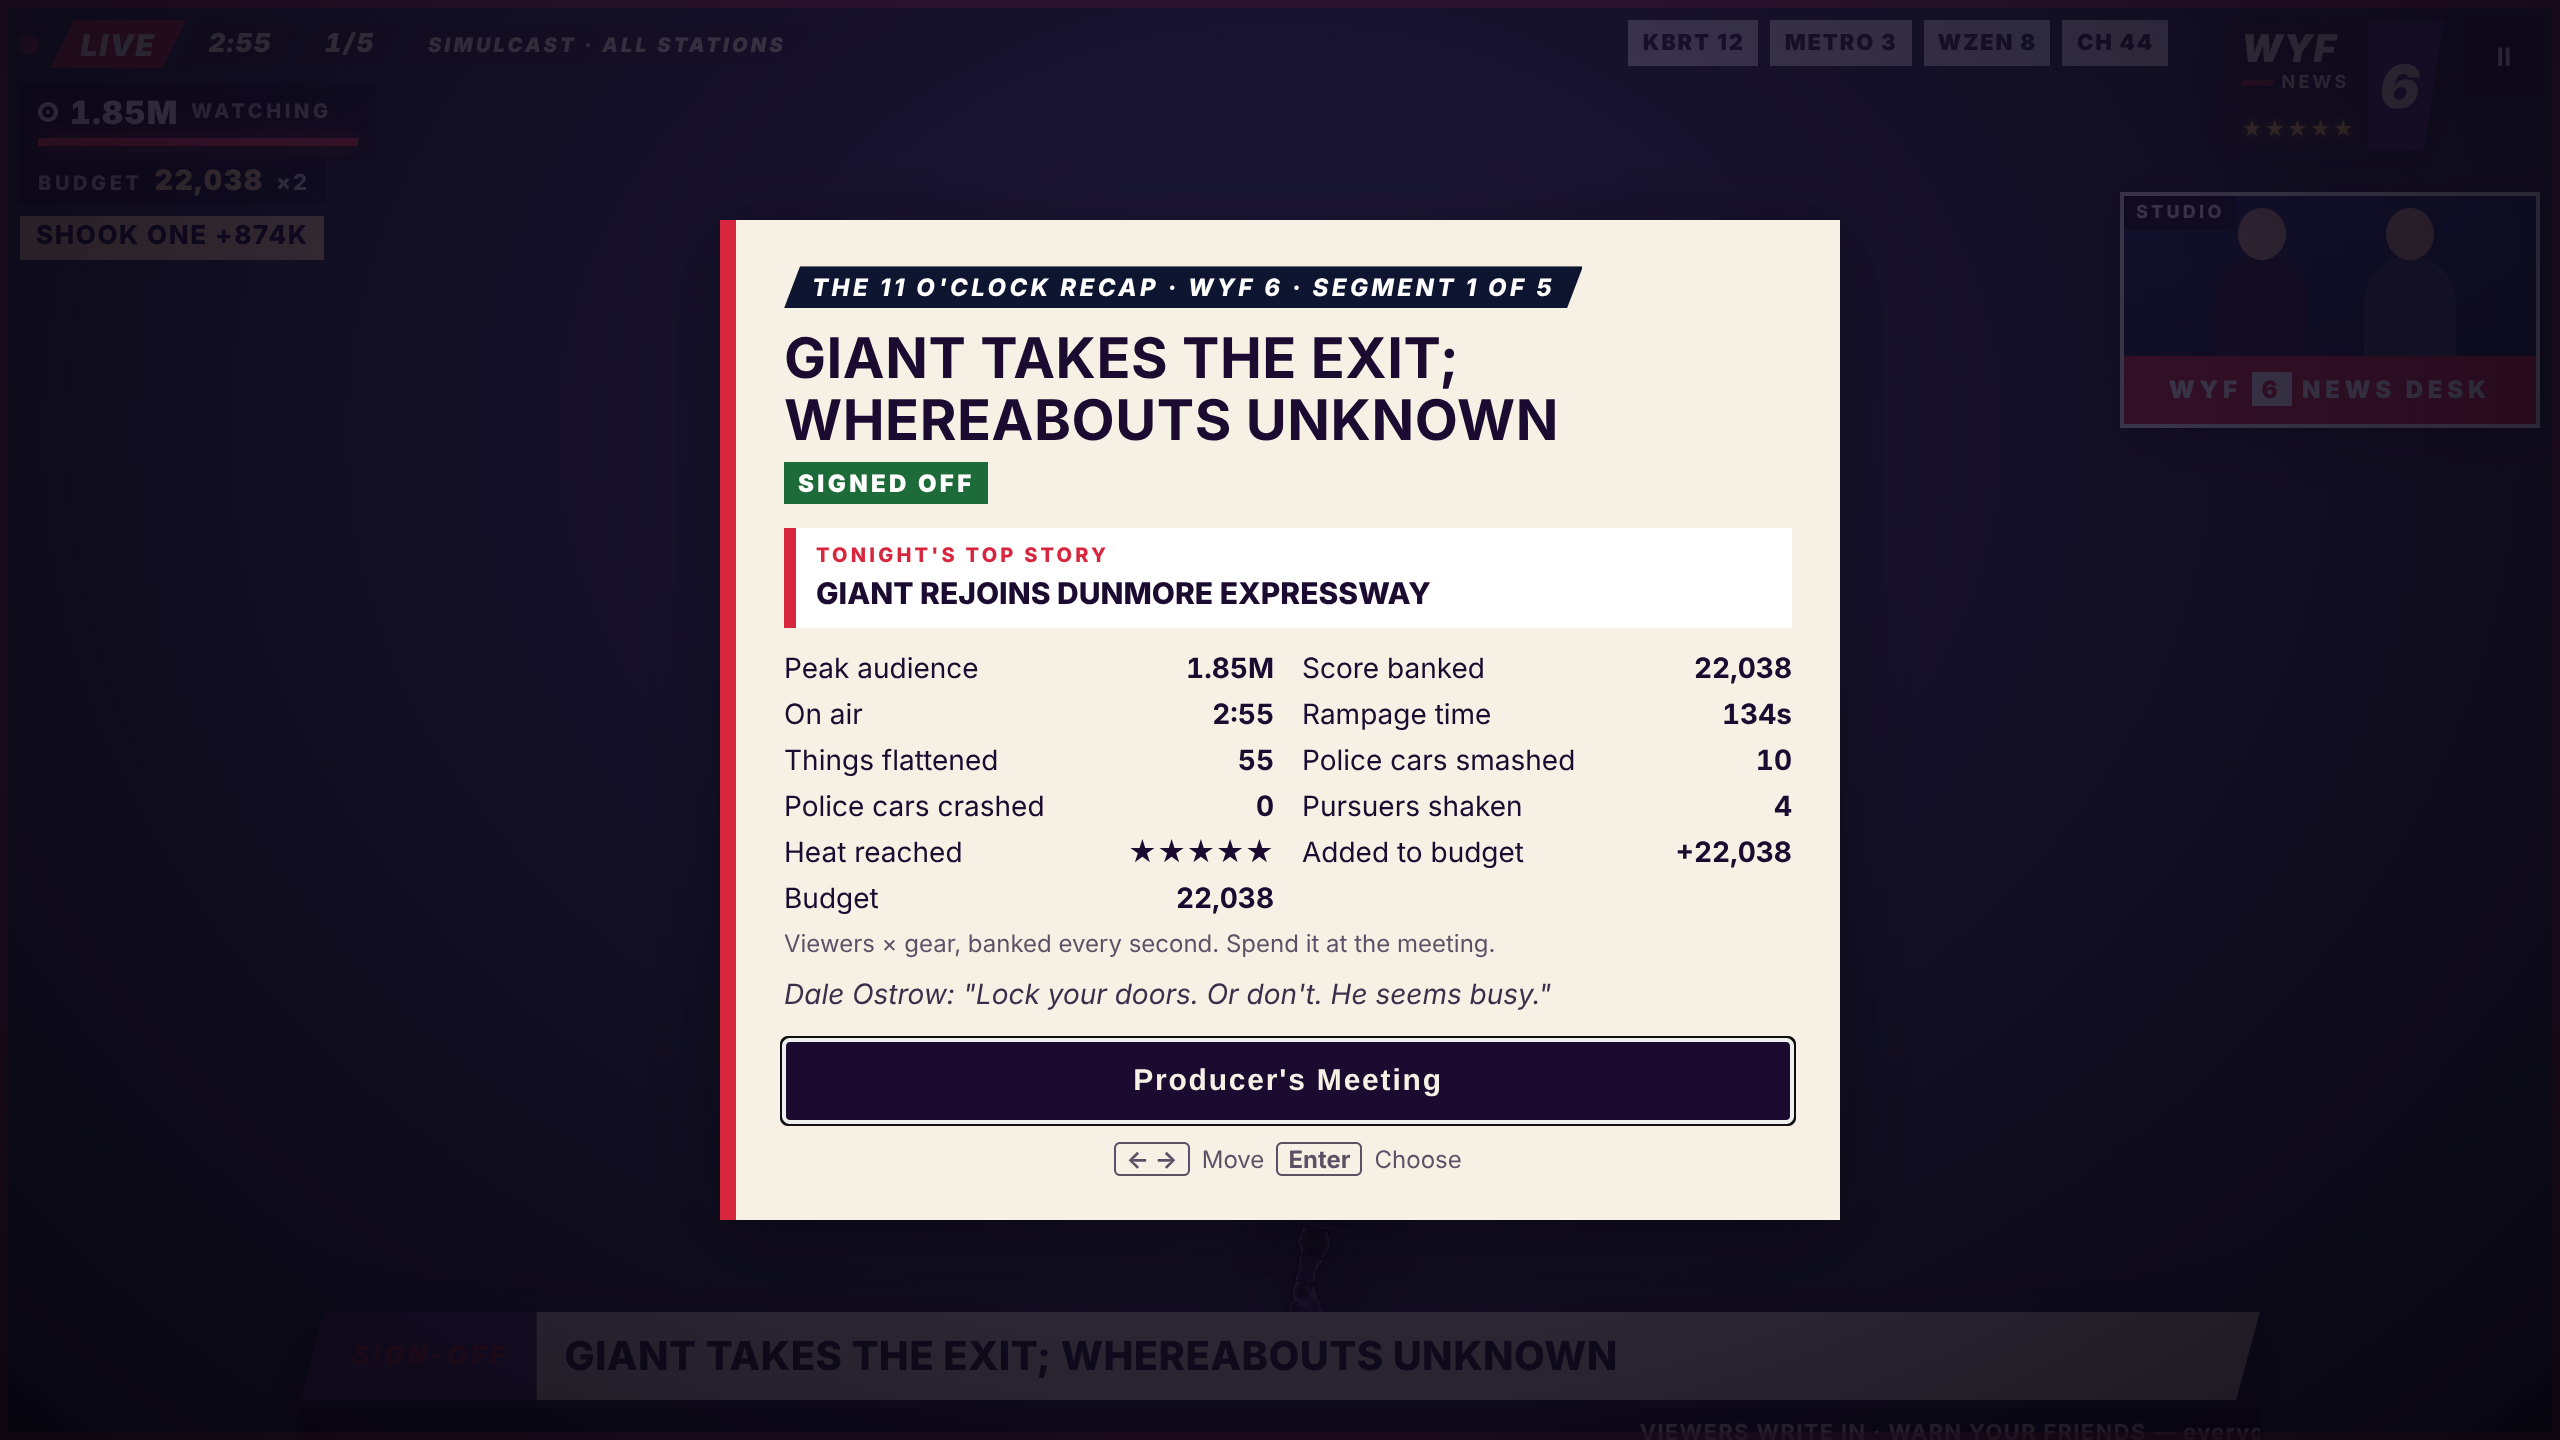
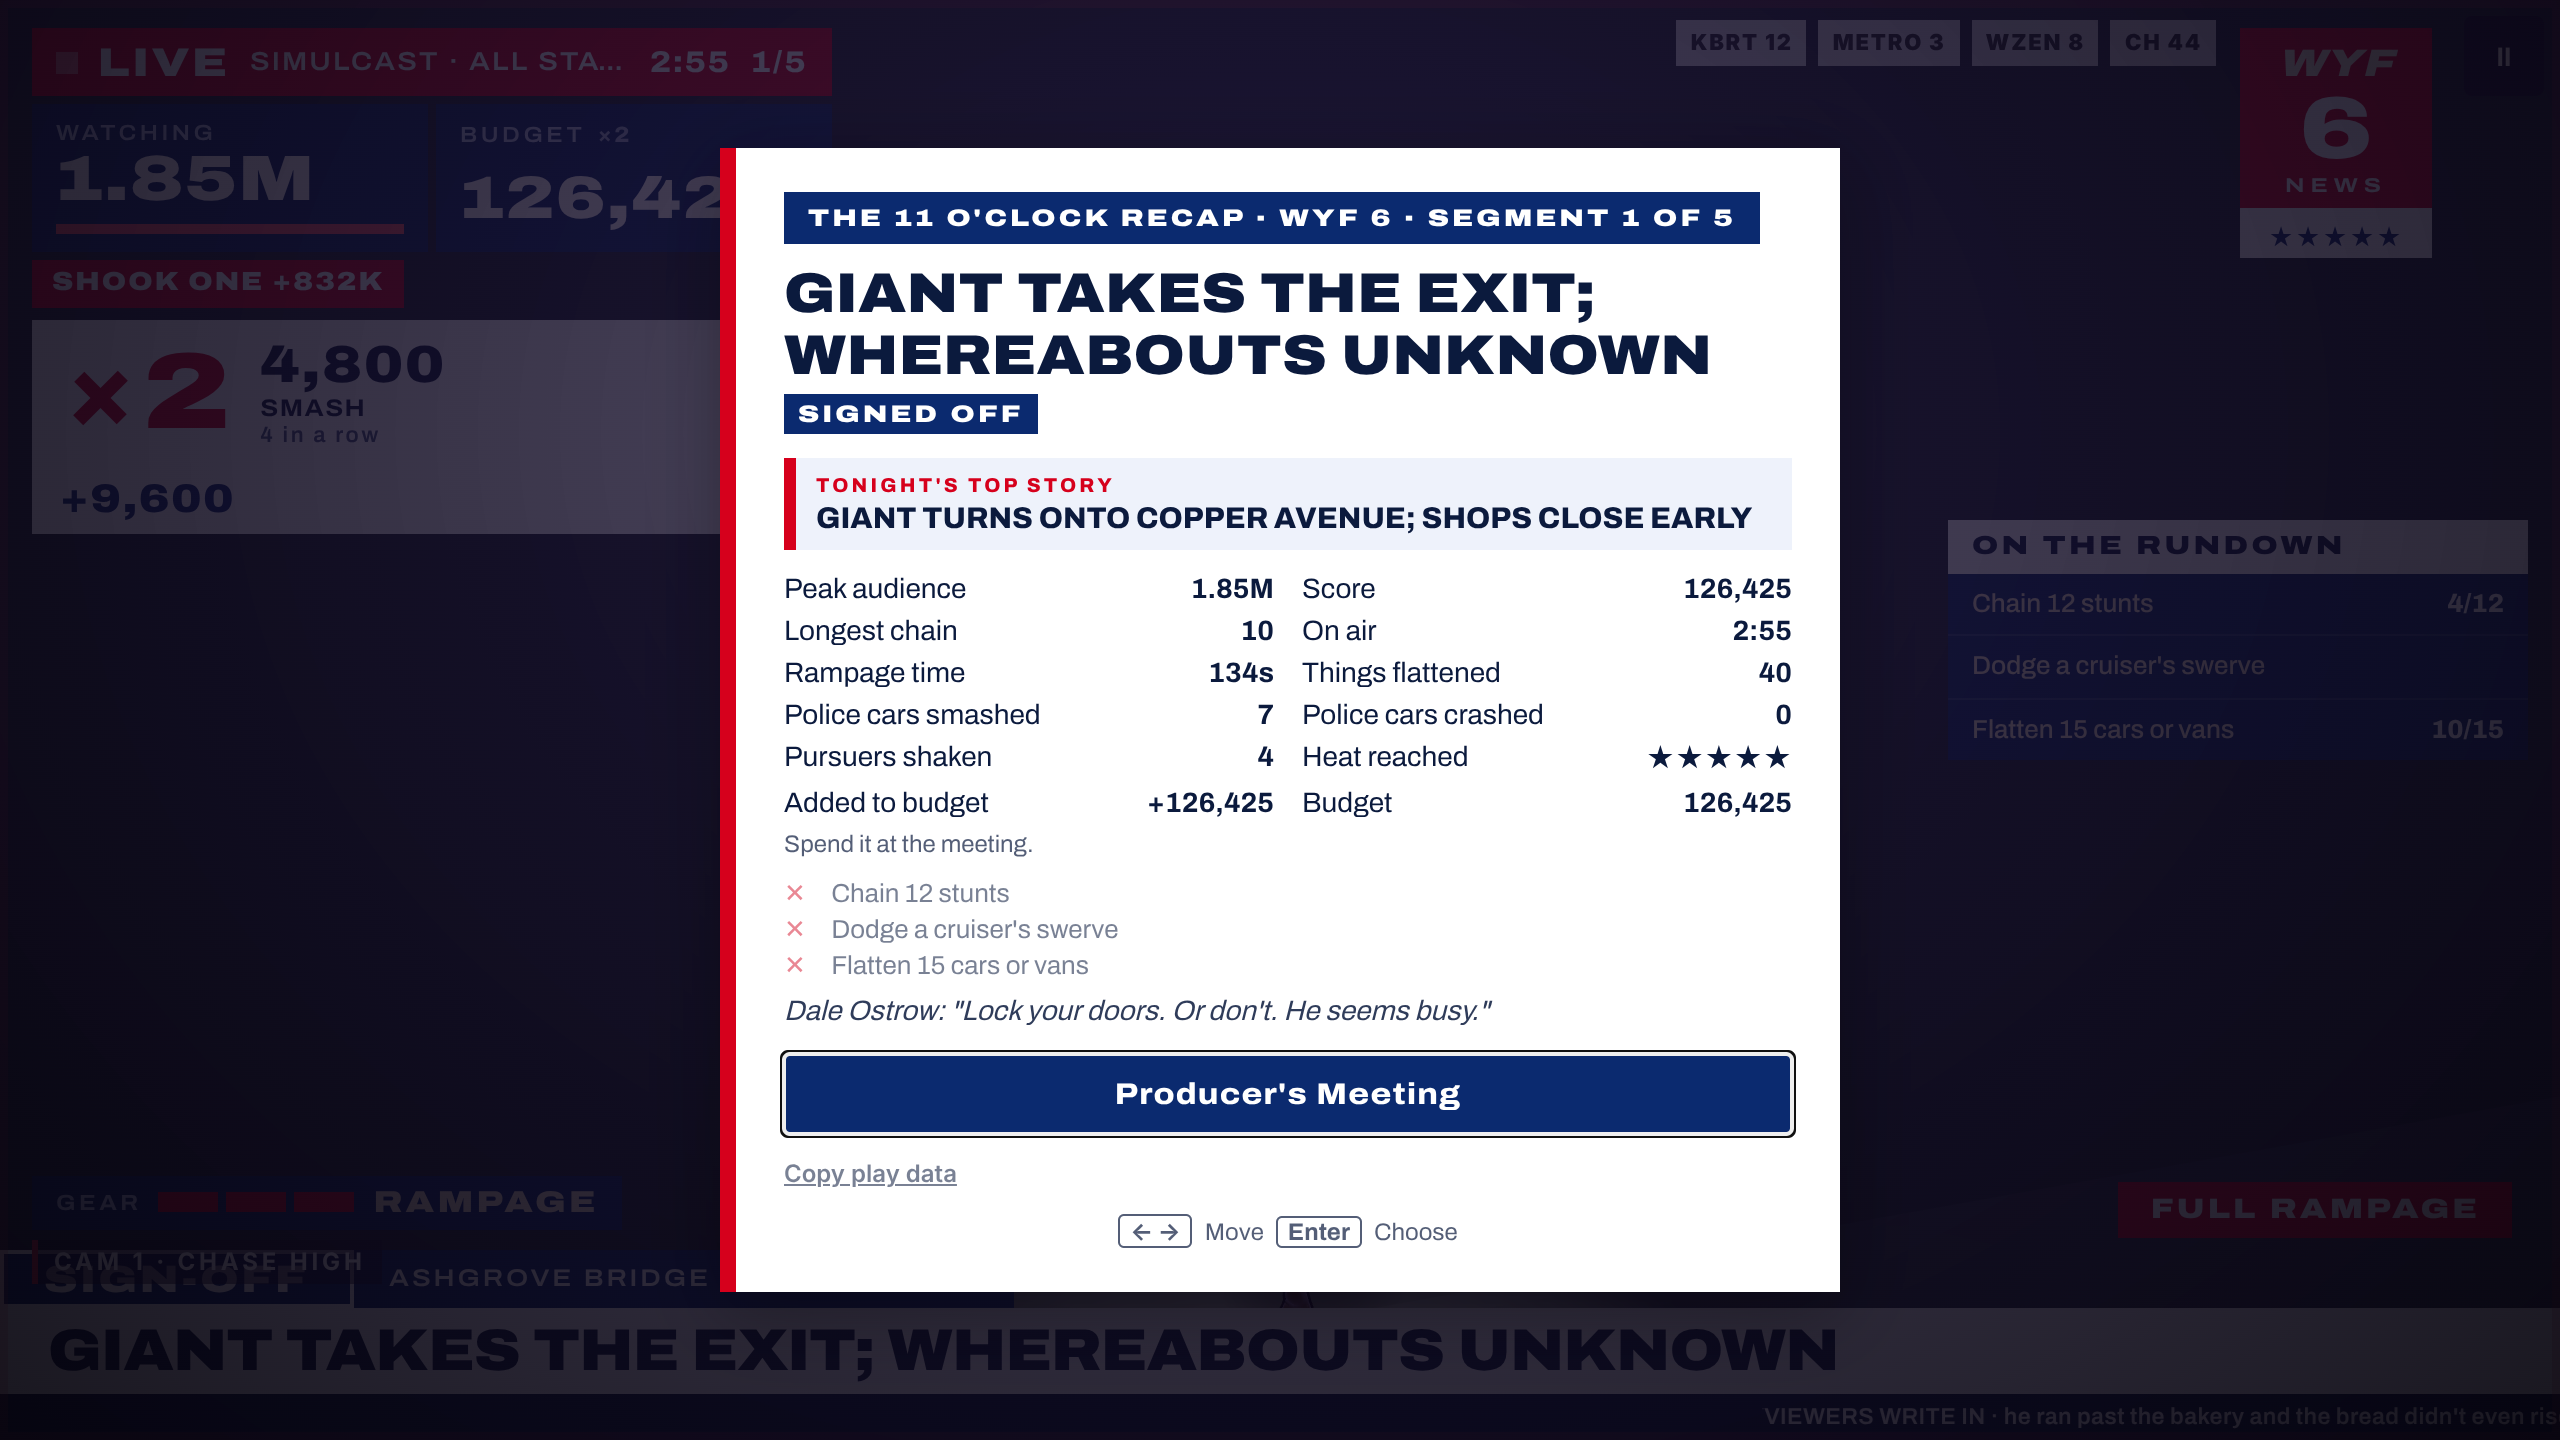
Direction B carried into the recap and meeting cards; LIVE label never wraps
Claude-Session: https://claude.ai/code/session_01U6CEu36hrVhyNvxAEfgX3T

diff --git a/src/style.css b/src/style.css
@@ -694,3 +694,29 @@ html.touch #ticker { right: 0; }
 /* Zoomed pieces right of centre keep their screen-px offset (clear of the pause button at any scale). */
 #bug { right: calc(64px / var(--hs, 1)); }
 #rivals { right: calc(172px / var(--hs, 1)); }
+
+/* B, carried into the cards (recap, Producer's Meeting): white panel, red edge, navy type and buttons,
+   deep-blue pitch cards so the upgrade art sits on the station's blue (no plum-and-cream left over). */
+.card { background: #ffffff; color: var(--b-deep); border-left-color: var(--b-red); }
+#recap .card { border-left-color: var(--b-red); }
+.go { background: var(--b-blue); color: #fff; font-family: var(--b-font); font-stretch: 112%; font-weight: 800; letter-spacing: 0.04em; }
+#recap .go.alt { background: transparent; color: var(--b-blue); border-color: var(--b-blue); }
+#recap h2 { font-family: var(--b-font); font-stretch: 112%; font-weight: 900; color: var(--b-deep); }
+#recap .outcome { font-family: var(--b-font); font-stretch: 125%; background: var(--b-red); }
+#recap .outcome.cleared { background: var(--b-blue); }
+#recap .best { border-left-color: var(--b-red); background: #eef2fb; }
+#recap .best small { color: var(--b-red); }
+#recap .purse b { color: var(--b-red); font-family: var(--b-font); font-stretch: 112%; font-weight: 900; }
+#recap .pitch { background: var(--b-blue); color: #fff; border-color: rgba(255, 255, 255, 0.14); }
+#recap .pitch b { color: #fff; }
+#recap .pitch .said { color: #ffffff; }
+#recap .pitch .blurb { color: var(--b-mute); opacity: 1; }
+#recap .pitch .price { color: #fff; font-family: var(--b-font); font-stretch: 112%; font-weight: 900; }
+#recap .pitch:hover:not(:disabled), #recap .pitch:focus-visible, #recap .pitch:focus { border-color: #fff; box-shadow: 0 0 0 3px var(--b-red); }
+#recap .pitch .need { color: #ff8a96; }
+#recap ul.asks li.done i { color: var(--b-blue); }
+#recap ul.asks li b { color: var(--b-red); }
+#recap .playdata { color: rgba(11, 26, 61, 0.55); }
+/* LIVE band: the coverage label never wraps (it shortens instead). */
+#live #coverage { white-space: nowrap; overflow: hidden; text-overflow: ellipsis; min-width: 0; flex-shrink: 1; }
+#live b, #live #clock, #live .dot { flex-shrink: 0; }

diff --git a/DECISIONS.md b/DECISIONS.md
@@ -4,7 +4,7 @@ Build-time decisions, working defaults for open questions (GDD §46), and deviat
 
 | Date | Decision | Why | Revisit |
 |---|---|---|---|
-| 2026-11-15 | **HUD: Direction B · Cable News Wall** (Mike picked it from the style board, https://claude.ai/artifact/C7npdCS7E2c4LiFqDuATxr). Archivo variable (width 62–125%, weight 100–900), bundled (`src/assets/fonts`, OFL), flat red #d6001c / blue #0b2a6f / deep #0b1a3d / white. **Data wall** top left: a red LIVE band (coverage and clock in it), WATCHING and SCORE in two blue boxes, the gain pop under them, the combo in a white box (red multiplier). **Station bug**: a square red block, WYF / 6 / NEWS, Heat as blue stars on a white strip, clear of the pause button. **ON THE RUNDOWN** (the producer's asks) under the bug and the desk window. **Lower third**: three full-width bands: kicker + the road he's on and which way (a fact from the sim, e.g. "MILLBROOK EXPRESSWAY · NORTHBOUND"), the headline on white, the ticker. Its height is sized by the smaller of 4/6/3.2% of the height and 5/7/4% of the width, so it stays ≤ ~14% of the screen (his feet can be 85% down the frame). BREAKING takes over the top band for its sweep; the producer speaks right of the data wall (under the rundown in portrait); gear strip, gear tag and ability chip ride above the lower third. **Scale:** the top pieces are laid out at 1280×720 and zoomed by `--hs` = min(w/1280, h/720) clamped 0.5–1.3 (`tuning.hud`), set on resize. Evidence: `docs/evidence/hud/` (desktop, phone landscape, phone portrait). The A/C/D sheet styles stay in the stylesheet underneath, overridden; the earlier sheet-style decisions are superseded for the HUD. | Mike's choice. | Mike's look on a big screen and a phone |
+| 2026-11-15 | **HUD: Direction B · Cable News Wall** (Mike picked it from the style board, https://claude.ai/artifact/C7npdCS7E2c4LiFqDuATxr). Archivo variable (width 62–125%, weight 100–900), bundled (`src/assets/fonts`, OFL), flat red #d6001c / blue #0b2a6f / deep #0b1a3d / white. **Data wall** top left: a red LIVE band (coverage and clock in it), WATCHING and SCORE in two blue boxes, the gain pop under them, the combo in a white box (red multiplier). **Station bug**: a square red block, WYF / 6 / NEWS, Heat as blue stars on a white strip, clear of the pause button. **ON THE RUNDOWN** (the producer's asks) under the bug and the desk window. **Lower third**: three full-width bands: kicker + the road he's on and which way (a fact from the sim, e.g. "MILLBROOK EXPRESSWAY · NORTHBOUND"), the headline on white, the ticker. Its height is sized by the smaller of 4/6/3.2% of the height and 5/7/4% of the width, so it stays ≤ ~14% of the screen (his feet can be 85% down the frame). BREAKING takes over the top band for its sweep; the producer speaks right of the data wall (under the rundown in portrait); gear strip, gear tag and ability chip ride above the lower third. **Scale:** the top pieces are laid out at 1280×720 and zoomed by `--hs` = min(w/1280, h/720) clamped 0.5–1.3 (`tuning.hud`), set on resize. Evidence: `docs/evidence/hud/` (desktop, phone landscape, phone portrait, meeting cards). **Carried into the cards** (Mike: "will it clash with the upgrade cards? Will D read better there?"): the art itself sits well on B's blue; what clashed was the old plum-and-cream card chrome left under B's kickers. Recap and meeting now use a white panel with a red edge, navy type and buttons, and deep-blue pitch cards. D would match the art natively (it came from the same sheet) but would give up B everywhere else. The LIVE band's coverage label shortens instead of wrapping. The A/C/D sheet styles stay in the stylesheet underneath, overridden; the earlier sheet-style decisions are superseded for the HUD. | Mike's choice. | Mike's look on a big screen and a phone |
 | 2026-11-15 | **Mike's attract-mode / sign-off notes, fixed.** (1) **Sign-off ramp through buildings:** the ramp curves out 14–60m right of the road, but avenue storefronts stand from 6m: on an avenue sign-off he ran into the building row. Storefronts and lamps on the right are now left out within 2 segments before / 1 after any ramp (sign-off or fork), and exits no longer open on bridges (the ramp would hang over the water). (2) **Outro through props:** after the sign-off the sim stops colliding while he crosses to the ramp; the exit lane is now cleared 40m past the gore too (`exitClearAfter`). (3) **Stall (LOCKED Law 1):** an unsmashable hit pushed him back along the road even when side-on (a lane change into a car), so repeated attempts left him stuck (headless repro: ~5s with no progress). Only a head-on hit pushes him back now; side-on ones knock him sideways only. Unit test: a wall of cars in the next lane, steering into it every 1/3s, he still advances. (4) **Brushed cars rock** (presentation): a car he passes within 1.6m of its side rocks away from him (roll up to 24°, a 0.3m nudge inside its footprint, a scrape and a puff); its hitbox never moves. Note: cars centred in the next lane are ~3m from him, outside his reach; from the low title camera he can *look* like he overlaps them (perspective). | Mike's playtest notes. | Mike's feel check |
 | 2026-11-15 | **Shoulder Check gets a real move** (Mike: "we need an attack animation for shoulder"). 0.5s, presentation only over the sim's 0.25s burst: a wind-up (shoulders turn away, drop) for the first 18%, then the drive (the pauldron shoulder leads with a hard twist, a deep lean, that arm tucked across the chest, the other flung back, hips 0.22m lower) held to 60%, then the recovery; the lean snaps in instead of easing. The hit: three shockwave rings marching ahead of him, dust thrown forward, a jolt and the gear-up lens punch. Numbers in `tuning.shoulderAnim`. Evidence: `docs/evidence/shoulder/` (t00 before → t32 recovered). | Mike's call. | Mike's feel check |
 | 2026-11-15 | **Playtest export: "Copy play data" on the recap** (Mike: "yes, add the recap export"). Every broadcast's numbers are kept in this browser (`gal.playlog.v1`, last 100; `src/playlog.ts`): mode, seed, segment, upgrades, outcome, seconds, score, peak Ratings, Heat, seconds per gear, share of time with Ratings at the cap, smashes / across / bounces / lane changes, every chain (length, multiplier, points, dropped), base points by stunt, the asks and their progress, forks opened and taken, police (crashes, smashed, shaken, rams, ram hits, spikes), ability uses and ticks per input device. The recap's small "Copy play data" link copies all of it as one JSON (or downloads a file if the clipboard is blocked); focus returns to the main button. Presentation only (reads events and state); the replay never feeds it. E2E checks the entry's score equals the sim's and that the link produces JSON. | Tune prices, asks and chains on Mike's play, not the bot's. | **Hide before release** (with the T tuning panel) |
